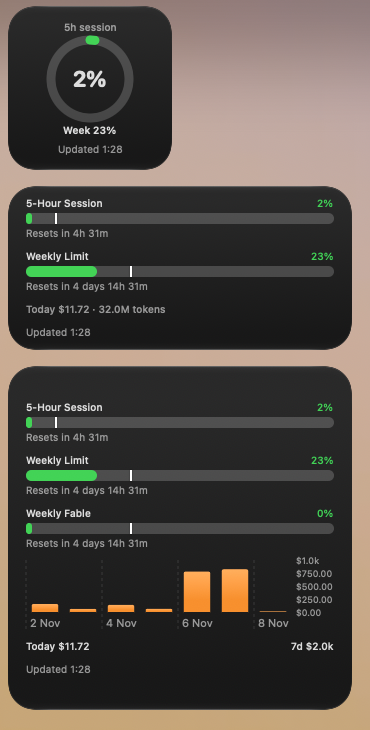
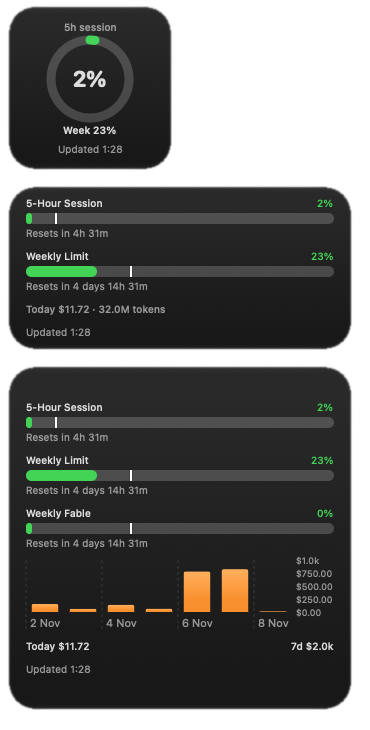
docs: README layout (panel + widgets on top, Usage screens side by side); transparent widget images

Changed region(s): [[0.0, 0.0, 1.0, 1.0]]

diff --git a/README.md b/README.md
@@ -14,37 +14,37 @@ A native macOS menu bar app (plus desktop widgets) that shows your **Claude Code
   <tr>
     <td valign="top" align="center">
       <img src="docs/images/popover.png" alt="Claude Usage panel: session, weekly and Fable limits with pace markers, pace chart, daily usage, token costs and plan" width="300"><br>
-      <sub>The panel: limits, pace, daily usage, tokens and plan</sub>
+      <sub><b>The panel</b>: limits, pace, daily usage, tokens and plan</sub>
     </td>
     <td valign="top" align="center">
-      <img src="docs/images/usage-projects.png" alt="Usage window grouped by project: 90-day daily chart on top, projects ranked by cost with share bars, and an expanded project showing its model split and a daily cost chart" width="640"><br>
-      <sub>The Usage window, grouped by project: click a bar on Daily Usage (or the footer button). Each project expands to its model split and daily trend (project names here are placeholders)</sub>
-      <br><br>
-      <img src="docs/images/usage-models.png" alt="Usage window grouped by model: models ranked by cost, with an expanded model listing the projects that used it and a daily cost chart" width="640"><br>
-      <sub>Grouped by model: which projects used each model</sub>
-      <br><br>
-      <img src="docs/images/usage-sessions.png" alt="Usage window in Sessions mode: one bar per 5-hour work session over the last 7 days, with projects ranked by cost and an expanded project showing a cost-per-session chart" width="640"><br>
-      <sub>Sessions mode: Claude's rolling 5-hour work windows instead of days</sub>
+      <img src="docs/images/widgets-color.png" alt="Claude Usage desktop widgets in full-color style" width="235">
+      &nbsp;
+      <img src="docs/images/widgets-mono.png" alt="Claude Usage desktop widgets in monochrome style" width="235"><br>
+      <sub><b>Desktop widgets</b>: full-color (left) and the monochrome macOS default (right). Small, medium and large; click one to open the panel.</sub>
     </td>
   </tr>
 </table>
-
-### Desktop widgets
 
 <table>
   <tr>
-    <td align="center" valign="top">
-      <img src="docs/images/widgets-color.png" alt="Claude Usage desktop widgets in full-color style" width="240"><br>
-      <sub><b>Full-color style</b></sub>
+    <td valign="top" align="center" width="33%">
+      <a href="docs/images/usage-projects.png"><img src="docs/images/usage-projects.png" alt="Usage window grouped by project: 90-day daily chart on top, projects ranked by cost with share bars, and an expanded project showing its model split and a daily cost chart" width="290"></a><br>
+      <sub><b>Usage, by project</b>: each project expands to its model split and daily trend</sub>
     </td>
-    <td align="center" valign="top">
-      <img src="docs/images/widgets-mono.png" alt="Claude Usage desktop widgets in monochrome style" width="240"><br>
-      <sub><b>Monochrome style</b> (macOS default "Automatic")</sub>
+    <td valign="top" align="center" width="33%">
+      <a href="docs/images/usage-models.png"><img src="docs/images/usage-models.png" alt="Usage window grouped by model: models ranked by cost, with an expanded model listing the projects that used it and a daily cost chart" width="290"></a><br>
+      <sub><b>Usage, by model</b>: which projects used each model</sub>
+    </td>
+    <td valign="top" align="center" width="33%">
+      <a href="docs/images/usage-sessions.png"><img src="docs/images/usage-sessions.png" alt="Usage window in Sessions mode: one bar per 5-hour work session over the last 7 days, with projects ranked by cost and an expanded project showing a cost-per-session chart" width="290"></a><br>
+      <sub><b>Usage, by session</b>: Claude's rolling 5-hour work windows</sub>
     </td>
   </tr>
 </table>
 
-Small, medium and large widgets. Add them from **Edit Widgets** on the desktop and click a widget to open the panel. macOS shows desktop widgets in the monochrome style unless you pick **System Settings → Desktop & Dock → Widgets → Widget style → Full-color**; the widgets are readable in both.
+<sub>Click a Usage screenshot for the full size. Project names in them are placeholders.</sub>
+
+Add the widgets from **Edit Widgets** on the desktop. macOS shows desktop widgets in the monochrome style unless you pick **System Settings → Desktop & Dock → Widgets → Widget style → Full-color**; the widgets are readable in both.
 
 ## Features
 
